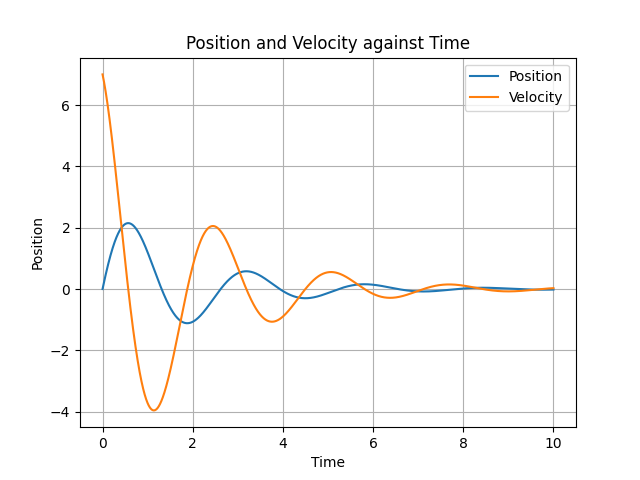
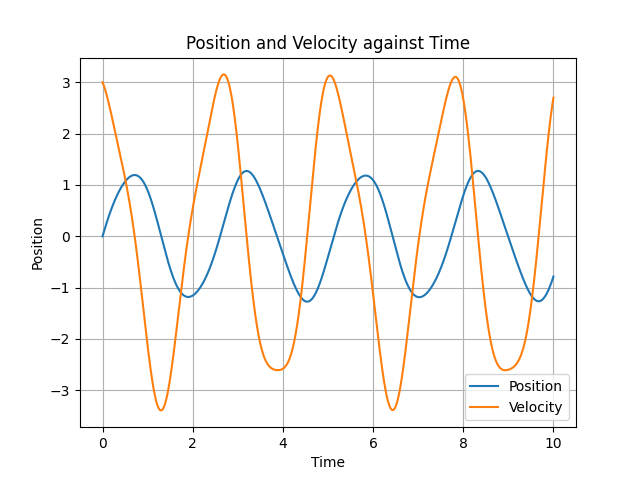
Commit

diff --git a/Moving Mirror with Force RK45.py b/Moving Mirror with Force RK45.py
@@ -2,7 +2,10 @@ import numpy as np
 import matplotlib.pyplot as plt
 from vpython import *
 
-scene = canvas(width=1500, height=400, background=color.white)
+scene = canvas(width = 1500, height = 400, background = color.white)
+
+def F(t):
+    return F0 * np.cos(omega_f * t) 
 
 def f(t, S):
     """
@@ -17,7 +20,7 @@ def f(t, S):
     """
     dSdt = np.zeros_like(S)
     dSdt[0] = S[1]
-    dSdt[1] = -2 * r * S[1] - omega ** 2 * S[0]
+    dSdt[1] = - F(t) / m - 2 * r * S[1] - omega ** 2 * S[0]
     return dSdt
 
 def RK45(f, t0, tf, S0, h):
@@ -80,7 +83,7 @@ def update_mirror(mirror, sol):
     """
     mirror.pos = vector(sol[:, 0][-1], 0, 0)
 
-global r, omega, error_m
+global r, omega, error_m, omega_f, F0
 
 m = float(input("Mass of the mirror:"))
 k = float(input("Spring constant:"))
@@ -94,6 +97,8 @@ tf = 10.0
 h = 0.0001
 S0 = np.array([x0, v0])
 error_m = 1e-5
+F0 = 3
+omega_f = sqrt(6) #The resonance frequency is sqrt(k / m)
 
 mirror = box(pos = vector(S0[0], 0, 0), size = vector(0.01, 0.5, 0.3), color = color.blue)
 
@@ -106,7 +111,7 @@ plt.ylabel('Position')
 plt.title('Position and Velocity against Time')
 plt.legend()
 plt.grid(True)
-plt.savefig('moving_mirror_rk45.png')
+plt.savefig('moving_mirror_with_force_rk45.png')
 
 while True:
     for i in range(len(t_values)):
